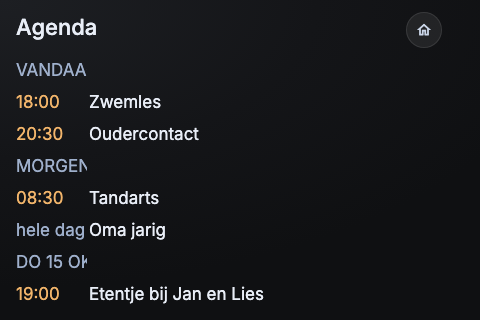
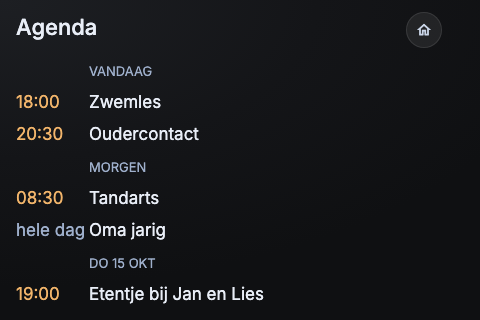
English screenshots (+ Dutch), calendar day headers in the wide title column (TOMORROW / THU 15 OCT were clipped), README: multiple panels

Changed region(s): [[0.0312, 0.7812, 0.3438, 0.8438], [0.0312, 0.1875, 0.3125, 0.25], [0.0312, 0.5, 0.3125, 0.5625]]

diff --git a/tests/pageViews.test.ts b/tests/pageViews.test.ts
@@ -72,26 +72,27 @@ describe('buildCalendarProps', () => {
       ev('2026-10-12T16:00:00Z', 'Zwemles'), ev('2026-10-12T18:30:00Z', 'Oudercontact'),
       ev('2026-10-13T06:30:00Z', 'Tandarts'), ev('2026-10-13T22:00:00Z', 'Oma jarig', true),
     ], { now: NOW, lang: 'nl', timeZone: TZ, h24: true, fonts: FONTS });
-    const row = (n: string) => [p[`calendar.t${n}.txt`], p[`calendar.e${n}.txt`], p[`calendar.t${n}.pco`], p[`calendar.t${n}.font`]];
+    const row = (n: string) => [p[`calendar.t${n}.txt`], p[`calendar.e${n}.txt`], p[`calendar.t${n}.pco`], p[`calendar.e${n}.pco`], p[`calendar.e${n}.font`]];
     expect(p['calendar.title.txt']).toBe('Agenda');
-    expect(row('01')).toEqual(['VANDAAG', '', '40345', '9']);
-    expect(row('02')).toEqual(['18:00', 'Zwemles', '62893', '8']);
-    expect(row('03')).toEqual(['20:30', 'Oudercontact', '62893', '8']);
-    expect(row('04')).toEqual(['MORGEN', '', '40345', '9']);
-    expect(row('05')).toEqual(['08:30', 'Tandarts', '62893', '8']);
-    expect(row('06')).toEqual(['WO 14 OKT', '', '40345', '9']);
-    expect(row('07')).toEqual(['hele dag', 'Oma jarig', '40345', '8']);
-    expect(row('08')).toEqual(['', '', '40345', '8']);
+    // Day headers use the wide title column (the time column is too narrow for "TOMORROW", "THU 15 OCT").
+    expect(row('01')).toEqual(['', 'VANDAAG', '40345', '40345', '9']);
+    expect(row('02')).toEqual(['18:00', 'Zwemles', '62893', '61310', '8']);
+    expect(row('03')).toEqual(['20:30', 'Oudercontact', '62893', '61310', '8']);
+    expect(row('04')).toEqual(['', 'MORGEN', '40345', '40345', '9']);
+    expect(row('05')).toEqual(['08:30', 'Tandarts', '62893', '61310', '8']);
+    expect(row('06')).toEqual(['', 'WO 14 OKT', '40345', '40345', '9']);
+    expect(row('07')).toEqual(['hele dag', 'Oma jarig', '40345', '61310', '8']);
+    expect(row('08')).toEqual(['', '', '40345', '61310', '8']);
   });
 
   test('never ends on a lone header, truncates long titles, and shows ongoing multi-day events today', () => {
     const many = Array.from({ length: 6 }, (_, i) => ev(`2026-10-12T1${i}:00:00Z`, i === 0 ? 'Een heel lange titel die echt niet past op de regel' : `E${i}`));
     const p = buildCalendarProps([ev('2026-10-09T22:00:00Z', 'Herfstvakantie', true), ...many, ev('2026-10-13T08:00:00Z', 'Morgen')],
       { now: NOW, lang: 'nl', timeZone: TZ, h24: true, fonts: FONTS });
-    expect(p['calendar.t01.txt']).toBe('VANDAAG');
+    expect(p['calendar.e01.txt']).toBe('VANDAAG');
     expect(p['calendar.e02.txt']).toBe('Herfstvakantie');
     expect(p['calendar.e03.txt']).toBe('Een heel lange titel die ec…');
-    expect(p['calendar.t08.txt']).not.toBe('MORGEN');
+    expect(p['calendar.e08.txt']).not.toBe('MORGEN');
   });
 
   test('stale data marks the title', () => {

diff --git a/design/render.ts b/design/render.ts
@@ -51,7 +51,9 @@ const glyph = (name: string): string => {
 const esc = (s: string): string => s.replace(/[&<>]/g, (c) => ({ '&': '&amp;', '<': '&lt;', '>': '&gt;' }[c] as string));
 
 // variant: render one of the page's crop-source pictures (amber cards/buttons, or buttons left out).
-export function renderPage(page: Page, mode: Mode, fontDir: string, variant?: Variant): string {
+// samples: preview text overrides per "page.component" (e.g. English, see previewSamples.ts).
+export function renderPage(page: Page, mode: Mode, fontDir: string, variant?: Variant, samples: Record<string, string> = {}): string {
+  const sampleOf = (name: string): string => samples[`${page.name}.${name}`] ?? page.components.find((c) => c.name === name)?.sample ?? '';
   const cards = page.cards.map((c) => {
     const tint = c.tint === 'amber' || variant?.amberCards;
     return `<div class="card${tint ? ' amber' : ''}" style="left:${c.x}px;top:${c.y}px;width:${c.w}px;height:${c.h}px;border-radius:${c.r ?? 18}px"></div>`;
@@ -68,10 +70,12 @@ export function renderPage(page: Page, mode: Mode, fontDir: string, variant?: Va
       const pct = Number(c.sample) || 0;
       return `<div style="position:absolute;left:${c.x}px;top:${c.y}px;width:${c.w}px;height:${c.h}px;background:${COLORS[c.bco ?? 'track']};border-radius:${c.h / 2}px"><div style="width:${pct}%;height:100%;background:${COLORS[c.color]};border-radius:${c.h / 2}px"></div></div>`;
     }
-    const f = FONT_SPECS[c.font];
+    // Calendar day headers (title column, no time) switch to the small font at runtime (calendarView).
+    const header = page.name === 'calendar' && /^e\d+$/.test(c.name) && sampleOf(`t${c.name.slice(1)}`) === '' && sampleOf(c.name) !== '';
+    const f = FONT_SPECS[header ? 'F_SMALL' : c.font];
     const justify = { left: 'flex-start', center: 'center', right: 'flex-end' }[c.align];
     const align = { top: 'flex-start', center: 'center', bottom: 'flex-end' }[c.valign ?? 'center'];
-    return `<div class="txt" style="left:${c.x}px;top:${c.y}px;width:${c.w}px;height:${c.h}px;color:${COLORS[c.color]};font-size:${f.px}px;${FONT_CSS[f.family]}justify-content:${justify};align-items:${align};white-space:${c.wrap ? 'normal' : 'nowrap'}">${esc(previewSample(c.sample))}</div>`;
+    return `<div class="txt" style="left:${c.x}px;top:${c.y}px;width:${c.w}px;height:${c.h}px;color:${COLORS[c.color]};font-size:${f.px}px;${FONT_CSS[f.family]}justify-content:${justify};align-items:${align};white-space:${c.wrap ? 'normal' : 'nowrap'}">${esc(previewSample(sampleOf(c.name)))}</div>`;
   }).join('');
 
   return `<!doctype html><html><head><meta charset="utf-8"><style>

diff --git a/design/screenshots.ts b/design/screenshots.ts
@@ -1,10 +1,12 @@
-// Usage: bun design/screenshots.ts (after bun design/export.ts)
-// Puts the page previews (design/preview/*.png) on one overview image: docs/screenshots.png. Needs Google Chrome.
+// Usage: bun design/screenshots.ts [en|nl] (after bun design/export.ts)
+// Puts the page previews on one overview image: docs/screenshots.png (English) or docs/screenshots-nl.png. Needs Google Chrome.
 import { mkdirSync, rmSync } from 'node:fs';
 import { join, resolve } from 'node:path';
 
 const CHROME = '/Applications/Google Chrome.app/Contents/MacOS/Google Chrome';
 const root = resolve(import.meta.dir, '..');
+const lang = process.argv[2] === 'nl' ? 'nl' : 'en';
+const previewDir = lang === 'nl' ? 'design/preview' : 'design/preview-en';
 const PAGES: Array<[string, string]> = [
   ['home', 'Home'], ['moods', 'Moods'], ['climate', 'Thermostat'], ['calendar', 'Calendar'],
   ['media', 'Media'], ['timer', 'Kitchen timer'], ['notification', 'Notification'], ['screensaver', 'Screensaver'],
@@ -17,7 +19,7 @@ const LABEL = 28;
 const width = COLS * W + (COLS + 1) * GAP;
 const height = Math.ceil(PAGES.length / COLS) * (H + LABEL + GAP) + GAP;
 
-const tiles = PAGES.map(([file, title]) => `<figure><img src="file://${join(root, 'design/preview', `${file}.png`)}"><figcaption>${title}</figcaption></figure>`).join('');
+const tiles = PAGES.map(([file, title]) => `<figure><img src="file://${join(root, previewDir, `${file}.png`)}"><figcaption>${title}</figcaption></figure>`).join('');
 const html = `<!doctype html><html><head><meta charset="utf-8"><style>
   html, body { margin: 0; background: #e9e9ec; }
   .grid { display: grid; grid-template-columns: repeat(${COLS}, ${W}px); gap: ${GAP}px; padding: ${GAP}px; }
@@ -31,10 +33,10 @@ mkdirSync(tmp, { recursive: true });
 mkdirSync(join(root, 'docs'), { recursive: true });
 const file = join(tmp, 'sheet.html');
 await Bun.write(file, html);
-const out = join(root, 'docs/screenshots.png');
+const out = join(root, lang === 'nl' ? 'docs/screenshots-nl.png' : 'docs/screenshots.png');
 const proc = Bun.spawn([CHROME, '--headless=new', '--disable-gpu', '--hide-scrollbars', '--force-device-scale-factor=1',
   '--allow-file-access-from-files', `--window-size=${width},${height}`, '--virtual-time-budget=2000', `--screenshot=${out}`, `file://${file}`],
 { stdout: 'ignore', stderr: 'ignore' });
 if ((await proc.exited) !== 0) throw new Error('Chrome failed');
 rmSync(tmp, { recursive: true, force: true });
-console.log('wrote docs/screenshots.png');
+console.log(`wrote ${out.slice(root.length + 1)}`);

diff --git a/design/layout.ts b/design/layout.ts
@@ -186,8 +186,8 @@ const climate: Page = {
 // ---- calendar ----
 export const CAL_ROWS = 8;
 const CAL_SAMPLES: Array<[string, string, ColorName?]> = [
-  ['VANDAAG', ''], ['18:00', 'Zwemles'], ['20:30', 'Oudercontact'], ['MORGEN', ''],
-  ['08:30', 'Tandarts'], ['hele dag', 'Oma jarig', 'muted'], ['DO 15 OKT', ''], ['19:00', 'Etentje bij Jan en Lies'],
+  ['', 'VANDAAG'], ['18:00', 'Zwemles'], ['20:30', 'Oudercontact'], ['', 'MORGEN'],
+  ['08:30', 'Tandarts'], ['hele dag', 'Oma jarig', 'muted'], ['', 'DO 15 OKT'], ['19:00', 'Etentje bij Jan en Lies'],
 ];
 const calTop = titleAndHome('Agenda');
 const calRows: Component[] = [];
@@ -195,11 +195,11 @@ for (let i = 0; i < CAL_ROWS; i++) {
   const n = String(i + 1).padStart(2, '0');
   const y = 56 + i * 32;
   const [t, e] = CAL_SAMPLES[i];
-  const header = e === '' ;
+  const header = t === ''; // day headers sit in the title column, small and muted (calendarView)
   calRows.push(
-    // One font for every row: the app switches only the colour (header rows muted); runtime font switching needs Editor font ids.
-    { name: `t${n}`, x: 20, y, w: 74, h: 30, font: 'F_BODY', color: header ? 'muted' : (CAL_SAMPLES[i][2] ?? 'amber'), align: 'left', valign: 'center', crop: 'bg', sample: t },
-    { name: `e${n}`, x: 96, y, w: 364, h: 30, font: 'F_BODY', color: 'text', align: 'left', valign: 'center', crop: 'bg', sample: e },
+    // Editor fonts are F_BODY; the app switches header rows to F_SMALL and muted at runtime (lib/tftIds.json font ids).
+    { name: `t${n}`, x: 20, y, w: 74, h: 30, font: 'F_BODY', color: CAL_SAMPLES[i][2] ?? 'amber', align: 'left', valign: 'center', crop: 'bg', sample: t },
+    { name: `e${n}`, x: 96, y, w: 364, h: 30, font: 'F_BODY', color: header ? 'muted' : 'text', align: 'left', valign: 'center', crop: 'bg', sample: e },
   );
 }
 const calendar: Page = {

diff --git a/design/export.ts b/design/export.ts
@@ -1,9 +1,10 @@
 // Usage: bun design/export.ts
 // Renders every page to tft/assets/<page>.png (Nextion backgrounds / crop images) and
-// design/preview/<page>.png (with sample text, for review). Needs Google Chrome.
+// design/preview/<page>.png and design/preview-en/<page>.png (with Dutch / English sample text, for review). Needs Google Chrome.
 import { mkdirSync, rmSync } from 'node:fs';
 import { join, resolve } from 'node:path';
 import { PAGES } from './layout';
+import { SAMPLES_EN } from './previewSamples';
 import { renderPage } from './render';
 
 const CHROME = '/Applications/Google Chrome.app/Contents/MacOS/Google Chrome';
@@ -13,6 +14,7 @@ const tmp = join(root, '.superpowers/design-export');
 mkdirSync(tmp, { recursive: true });
 mkdirSync(join(root, 'tft/assets'), { recursive: true });
 mkdirSync(join(root, 'design/preview'), { recursive: true });
+mkdirSync(join(root, 'design/preview-en'), { recursive: true });
 
 async function shoot(name: string, html: string, out: string): Promise<void> {
   const file = join(tmp, `${name}.html`);
@@ -27,6 +29,7 @@ const jobs: Array<{ name: string; html: string; out: string }> = [];
 for (const page of PAGES) {
   jobs.push({ name: page.name, html: renderPage(page, 'bg', fontDir), out: `tft/assets/${page.name}.png` });
   jobs.push({ name: `${page.name}-preview`, html: renderPage(page, 'preview', fontDir), out: `design/preview/${page.name}.png` });
+  jobs.push({ name: `${page.name}-preview-en`, html: renderPage(page, 'preview', fontDir, undefined, SAMPLES_EN), out: `design/preview-en/${page.name}.png` });
   for (const v of page.variants ?? []) {
     jobs.push({ name: `${page.name}-${v.suffix}`, html: renderPage(page, 'bg', fontDir, v), out: `tft/assets/${page.name}-${v.suffix}.png` });
   }

diff --git a/design/previewSamples.ts b/design/previewSamples.ts
@@ -1,0 +1,52 @@
+// English sample text for the preview renders (design/preview-en/, docs/screenshots.png). The layout's own samples
+// are Dutch; these override them per "page.component". UI words follow lib/i18n/en.json.
+export const SAMPLES_EN: Record<string, string> = {
+  'home.date': 'Monday 12 October',
+  'home.in_lbl': 'INSIDE',
+  'home.in_cur': '21.5°',
+  'home.in_tgt': '» 20.0°',
+  'home.nx_lbl': 'UP NEXT',
+  'home.nx1': 'Swimming',
+  'home.nx2': 'tomorrow 08:30 Dentist',
+
+  'moods.title': 'Moods',
+  'moods.l01': 'Movie',
+  'moods.l02': 'Dinner',
+  'moods.l03': 'Hawaii',
+  'moods.l04': 'Colourful',
+  'moods.l05': 'Kitchen',
+  'moods.l06': 'Sleep',
+  'moods.l07': 'Away',
+  'moods.l08': 'All off',
+
+  'climate.title': 'Climate',
+  'climate.tgt_lbl': 'TARGET',
+  'climate.tgt_txt': '20.0°',
+  'climate.status': 'Heating · now 21.5°',
+  'climate.room_lbl': 'LIVING ROOM',
+  'climate.room': 'Netatmo thermostat',
+  'climate.info': 'outside 13° humidity 48%',
+
+  'calendar.title': 'Calendar',
+  'calendar.e01': 'TODAY',
+  'calendar.e02': 'Swimming lesson',
+  'calendar.e03': 'Parents evening',
+  'calendar.e04': 'TOMORROW',
+  'calendar.e05': 'Dentist',
+  'calendar.t06': 'all day',
+  'calendar.e06': "Grandma's birthday",
+  'calendar.e07': 'THU 15 OCT',
+  'calendar.e08': 'Dinner with Jan and Lies',
+
+  'notification.heading': 'Laundry done',
+  'notification.body': 'The washing is ready to hang up.',
+  'notification.close_lbl': 'Close',
+
+  'screensaver.date': 'Monday 12 October',
+
+  'media.player': 'Kitchen ▸',
+  'media.src': 'SONOS · KITCHEN',
+
+  'timer.status': 'running · ready at 13:47',
+  'timer.act_lbl': 'Pause',
+};

diff --git a/lib/panel/calendarView.ts b/lib/panel/calendarView.ts
@@ -29,8 +29,9 @@ export function buildCalendarProps(events: CalEvent[], o: CalendarViewOptions): 
     if (key !== lastKey) {
       if (rows.length + 2 > CAL_ROWS) break; // a header needs at least one event under it
       const label = dayLabel(e.start < o.now ? o.now : e.start, o.now, o.lang, o.timeZone);
+      // In the wide title column: the time column (74 px) is too narrow for "TOMORROW" or "THU 15 OCT".
       rows.push({
-        time: label.toUpperCase(), title: '', pco: PCO.muted, header: true,
+        time: '', title: label.toUpperCase(), pco: PCO.muted, header: true,
       });
       lastKey = key;
     }
@@ -58,7 +59,8 @@ export function buildCalendarProps(events: CalEvent[], o: CalendarViewOptions): 
     p[`calendar.t${n}.txt`] = row.time;
     p[`calendar.e${n}.txt`] = row.title;
     p[`calendar.t${n}.pco`] = row.pco;
-    if (o.fonts) p[`calendar.t${n}.font`] = String(row.header ? o.fonts.small : o.fonts.body);
+    p[`calendar.e${n}.pco`] = row.header ? PCO.muted : PCO.text;
+    if (o.fonts) p[`calendar.e${n}.font`] = String(row.header ? o.fonts.small : o.fonts.body);
   }
   return p;
 }

diff --git a/tft/COMPONENTS.md b/tft/COMPONENTS.md
@@ -132,20 +132,20 @@ Page: `sta` = image, `pic` = `p_calendar`.
 | Name | Type | x | y | w | h | font | pco | bco | xcen | ycen | isbr | crop (picc) | touch | sample |
 |---|---|---|---|---|---|---|---|---|---|---|---|---|---|---|
 | title | Text | 16 | 12 | 288 | 32 | F_TITLE | 61310 | | 0 | 1 | 0 | p_calendar |  | Agenda |
-| t01 | Text | 16 | 56 | 71 | 30 | F_BODY | 40345 | | 0 | 1 | 0 | p_calendar |  | VANDAAG |
-| e01 | Text | 89 | 56 | 350 | 30 | F_BODY | 61310 | | 0 | 1 | 0 | p_calendar |  |  |
+| t01 | Text | 16 | 56 | 71 | 30 | F_BODY | 62893 | | 0 | 1 | 0 | p_calendar |  |  |
+| e01 | Text | 89 | 56 | 350 | 30 | F_BODY | 40345 | | 0 | 1 | 0 | p_calendar |  | VANDAAG |
 | t02 | Text | 16 | 88 | 71 | 30 | F_BODY | 62893 | | 0 | 1 | 0 | p_calendar |  | 18:00 |
 | e02 | Text | 89 | 88 | 350 | 30 | F_BODY | 61310 | | 0 | 1 | 0 | p_calendar |  | Zwemles |
 | t03 | Text | 16 | 120 | 71 | 30 | F_BODY | 62893 | | 0 | 1 | 0 | p_calendar |  | 20:30 |
 | e03 | Text | 89 | 120 | 350 | 30 | F_BODY | 61310 | | 0 | 1 | 0 | p_calendar |  | Oudercontact |
-| t04 | Text | 16 | 152 | 71 | 30 | F_BODY | 40345 | | 0 | 1 | 0 | p_calendar |  | MORGEN |
-| e04 | Text | 89 | 152 | 350 | 30 | F_BODY | 61310 | | 0 | 1 | 0 | p_calendar |  |  |
+| t04 | Text | 16 | 152 | 71 | 30 | F_BODY | 62893 | | 0 | 1 | 0 | p_calendar |  |  |
+| e04 | Text | 89 | 152 | 350 | 30 | F_BODY | 40345 | | 0 | 1 | 0 | p_calendar |  | MORGEN |
 | t05 | Text | 16 | 184 | 71 | 30 | F_BODY | 62893 | | 0 | 1 | 0 | p_calendar |  | 08:30 |
 | e05 | Text | 89 | 184 | 350 | 30 | F_BODY | 61310 | | 0 | 1 | 0 | p_calendar |  | Tandarts |
 | t06 | Text | 16 | 216 | 71 | 30 | F_BODY | 40345 | | 0 | 1 | 0 | p_calendar |  | hele dag |
 | e06 | Text | 89 | 216 | 350 | 30 | F_BODY | 61310 | | 0 | 1 | 0 | p_calendar |  | Oma jarig |
-| t07 | Text | 16 | 248 | 71 | 30 | F_BODY | 40345 | | 0 | 1 | 0 | p_calendar |  | DO 15 OKT |
-| e07 | Text | 89 | 248 | 350 | 30 | F_BODY | 61310 | | 0 | 1 | 0 | p_calendar |  |  |
+| t07 | Text | 16 | 248 | 71 | 30 | F_BODY | 62893 | | 0 | 1 | 0 | p_calendar |  |  |
+| e07 | Text | 89 | 248 | 350 | 30 | F_BODY | 40345 | | 0 | 1 | 0 | p_calendar |  | DO 15 OKT |
 | t08 | Text | 16 | 280 | 71 | 30 | F_BODY | 62893 | | 0 | 1 | 0 | p_calendar |  | 19:00 |
 | e08 | Text | 89 | 280 | 350 | 30 | F_BODY | 61310 | | 0 | 1 | 0 | p_calendar |  | Etentje bij Jan en Lies |
 

diff --git a/README.md b/README.md
@@ -6,7 +6,7 @@ It started from [Blackymas' NSPanel HA Blueprint](https://github.com/Blackymas/N
 
 ![All pages: home, moods, thermostat, calendar, media, kitchen timer, notification, screensaver](docs/screenshots.png)
 
-<sub>Renders of the display design with sample data (panel language: Dutch). Regenerate with `bun design/export.ts && bun design/screenshots.ts`.</sub>
+<sub>Renders of the display design with sample data, in English ([Dutch version](docs/screenshots-nl.png)). Regenerate with `bun design/export.ts && bun design/screenshots.ts [en|nl]`.</sub>
 
 **Pages**
 - **Home:** clock, date, weather, the inside temperature and up to 7 device chips (any Homey capability), plus the next calendar item.
@@ -101,6 +101,10 @@ If an upload fails, reboot the ESP before retrying (flash the same firmware agai
    - **Screen:** screensaver and button modes.
 
    The device settings hold the panel language, the date and time format, and weather.
+
+### More than one panel
+
+Every panel is its own Homey device with its own dashboard. Pick the panel at the top of the settings page; chips, moods, media players, calendar, screen and buttons are saved per panel, and so are language and time format (device settings). For the firmware, give every panel its own `name` in `firmware/nspanel.yaml` (the secrets can be shared) and flash each one.
 
 Flow cards: show or clear a notification, go to a page, play a sound, wake the screen, refresh the calendar, start the kitchen timer; triggers for the physical buttons, mood tiles and "kitchen timer finished".
 
